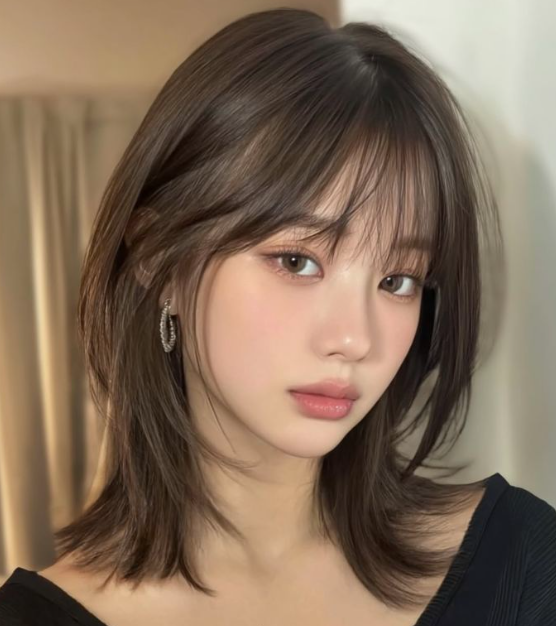
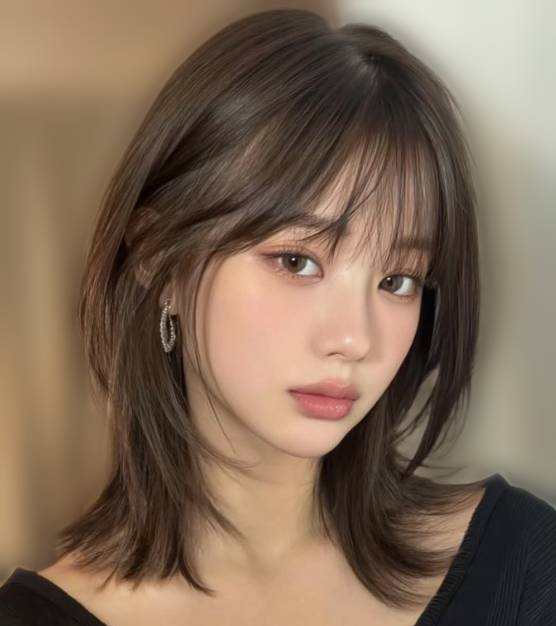
fixed background removal and background blur

diff --git a/src/elect_mt/processor.py b/src/elect_mt/processor.py
@@ -48,9 +48,19 @@ def _get_segmentation_model():
 
     try:
         import mediapipe as mp
-        _segmentation_model = mp.solutions.selfie_segmentation.SelfieSegmentation(
-            model_selection=1
-        )
+        solutions = getattr(mp, "solutions", None)
+        if solutions is None:
+            logger.warning("MediaPipe solutions module is unavailable.")
+            _segmentation_model = None
+            return _segmentation_model
+
+        selfie_segmentation = getattr(solutions, "selfie_segmentation", None)
+        if selfie_segmentation is None:
+            logger.warning("MediaPipe selfie_segmentation is unavailable.")
+            _segmentation_model = None
+            return _segmentation_model
+
+        _segmentation_model = selfie_segmentation.SelfieSegmentation(model_selection=1)
         logger.info("Loaded MediaPipe SelfieSegmentation model.")
     except Exception as exc:
         logger.warning("Segmentation model unavailable: %s", exc)
@@ -79,17 +89,12 @@ def _get_yolo_model() -> Any | None:
 
 
 def blur_background_only(bgr: np.ndarray, model) -> np.ndarray:
-    if model is None:
+    seg_mask = _safe_process_segmentation(bgr, model)
+    if seg_mask is None:
+        logger.warning("Segmentation mask missing; applying full blur.")
         return cv2.GaussianBlur(bgr, (31, 31), 0)
 
-    rgb = cv2.cvtColor(bgr, cv2.COLOR_BGR2RGB)
-    result = model.process(rgb)
-
-    if result.segmentation_mask is None:
-        logger.warning("Segmentation mask missing; skipping background blur.")
-        return cv2.GaussianBlur(bgr, (31, 31), 0)
-
-    mask = result.segmentation_mask.astype(np.float32)
+    mask = seg_mask.astype(np.float32)
     mask = cv2.GaussianBlur(mask, (21, 21), 0)
     mask_3 = np.stack([mask] * 3, axis=-1)
 
